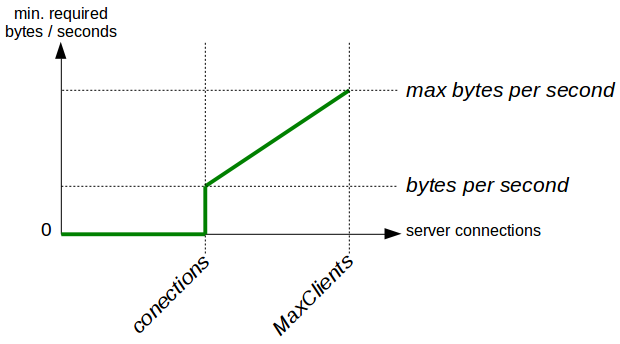
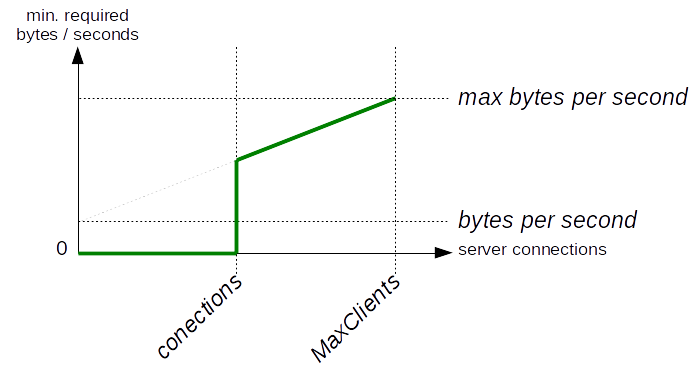
fixed QS_SrvMinDataRate simple mode
git-svn-id: https://svn.code.sf.net/p/mod-qos/source/trunk@2585 49bada20-169a-462c-a56a-03074c89f563

Changed region(s): [[0.0, 0.0291, 1.0, 0.9884], [0.2145, 0.7267, 0.3677, 0.9884], [0.429, 0.5233, 0.4903, 0.5523]]

diff --git a/doc/dos.html b/doc/dos.html
@@ -210,14 +210,14 @@ can be used to implement this rule.
 Syntax: <code><a href="index.html#QS_SrvMinDataRate">QS_SrvMinDataRate</a> &lt;bytes per second&gt; &lt;max bytes per second&gt; &lt;connections&gt;</code><br>
 
 <p>It offers three parameters. The first defines the 
-minimum data rate a client must achieve when this limitation becomes active 
-(at low number of connections) and the second parameter defines the throughput 
+minimum data rate a client must achieve if the server would be idle 
+(no connections) and the second parameter defines the throughput 
 a client must achieve when the server reaches its <code>MaxClients</code> 
 setting (at maximum number of connections). The third parameter defines the 
 number of busy connections (at low number of connections) to enable this 
 restriction.
 </p>
-<img src="images/SrvMinDataRate.png" height="344" width="620"/>
+<img src="images/SrvMinDataRate.png" height="370" width="698"/>
 <table border="0" cellspacing="5" cellpadding="10" width="100%"><tr><td bgcolor="#E2EDE2"><pre>
 # minimum request/response data reate if the server has 500 or more
 # open connections:

diff --git a/httpd_src/modules/qos/mod_qos.c b/httpd_src/modules/qos/mod_qos.c
@@ -43,7 +43,7 @@
  * Version
  ***********************************************************************/
 static const char revision[] = "$Id$";
-static const char g_revision[] = "11.64";
+static const char g_revision[] = "11.65";
 
 /************************************************************************
  * Includes
@@ -7737,8 +7737,8 @@ static void *qos_req_rate_thread(apr_thread_t *thread, void *selfv) {
   apr_uint64_t *ips = calloc(sconf->max_clients * 2, APR_ALIGN_DEFAULT(sizeof(apr_uint64_t)));
   while(!sconf->inctx_t->exit) {
     apr_uint64_t *ip = ips;
-    int currentcon = 0;
-    int req_rate = qos_req_rate_calc(sconf, &currentcon);
+    int current_con = 0;
+    int req_rate = qos_req_rate_calc(sconf, &current_con);
     apr_time_t now = apr_time_sec(apr_time_now());
     apr_time_t interval = now - sconf->qs_req_rate_tm;
     int i;
@@ -7774,7 +7774,7 @@ static void *qos_req_rate_thread(apr_thread_t *thread, void *selfv) {
               cconf->has_lowrate = 1; /* mark connection low rate */
             }
             /* enable only if min. num of connection reached */
-            if(currentcon <= sconf->req_rate_start) {
+            if(current_con < sconf->req_rate_start) {
               level = APLOG_DEBUG;
               cconf->has_lowrate = 1; /* mark connection low rate */
             }
@@ -7821,7 +7821,7 @@ static void *qos_req_rate_thread(apr_thread_t *thread, void *selfv) {
                   cconf->has_lowrate = 1; /* mark connection low rate */
                 }
                 /* enable only if min. num of connection reached */
-                if(currentcon <= sconf->req_rate_start) {
+                if(current_con < sconf->req_rate_start) {
                   level = APLOG_DEBUG;
                   cconf->has_lowrate = 1; /* mark connection low rate */
                 }

diff --git a/util/src/qs_util.h b/util/src/qs_util.h
@@ -29,8 +29,8 @@
 /* ----------------------------------
  * version info
  * ---------------------------------- */
-static const char man_version[] = "11.64";
-static const char man_date[] = "September 2019";
+static const char man_version[] = "11.65";
+static const char man_date[] = "December 2019";
 
 /* ----------------------------------
  * definitions
